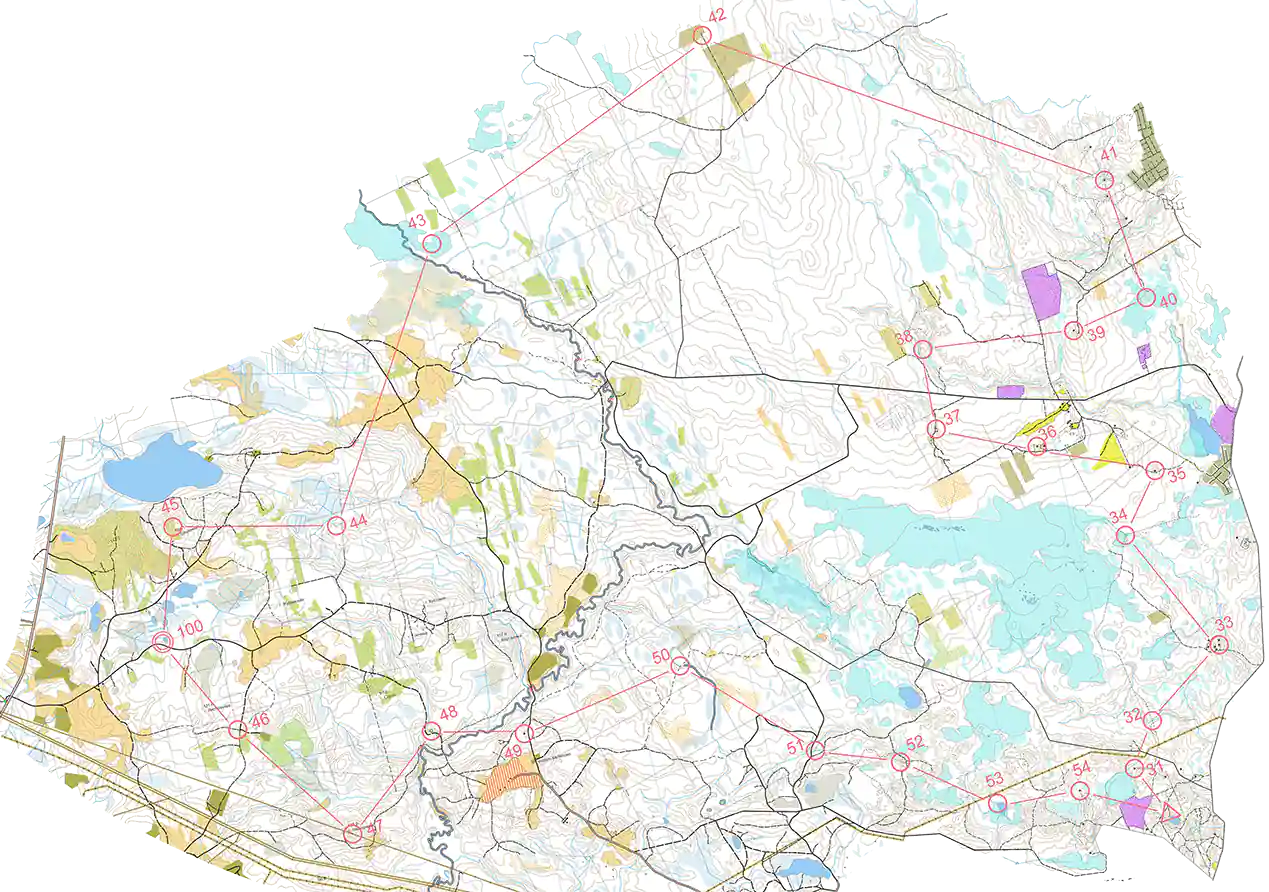
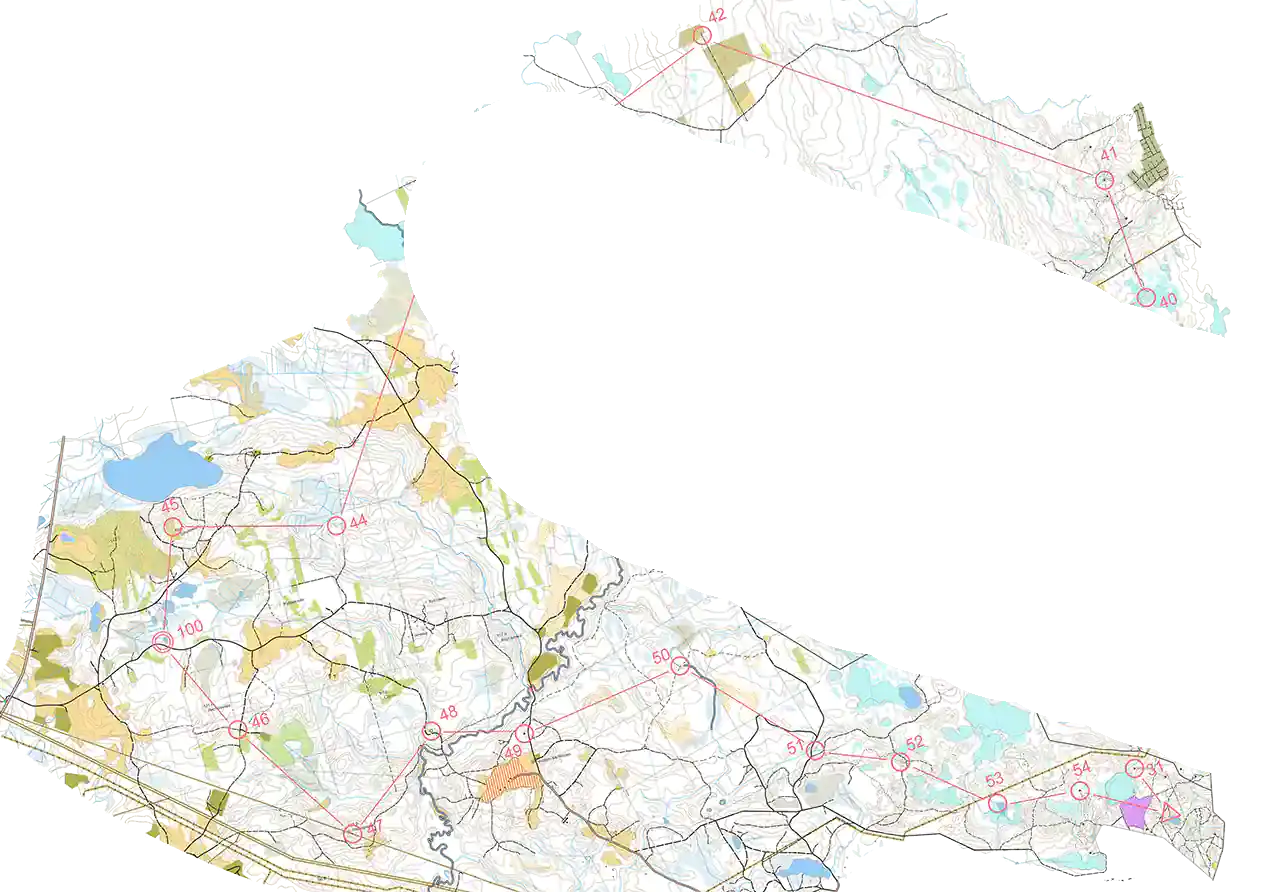
Вырезал военный полигон из рогейнерской карты Елизаветинки.

Changed region(s): [[0.3073, 0.1211, 1.0, 0.8778]]

diff --git a/js/maps-rogaine-beketov.js b/js/maps-rogaine-beketov.js
@@ -349,13 +349,12 @@ let rogaineBeketovMaps = [
     {
         name: 'Елизаветинка-Огоньки',
         date: '2010-05-22',
-        hidden: true,
         info: 'Инженерно-испытательный полигон.',
         url: './maps/rogaine/beketov/elizavetinka_ogonki_2010.webp',
         link: 'https://kandid.ru/maps10/mbs_10.gif',
         bounds: [[60.39876252373886, 29.918174743652347], [60.3239732732973, 30.276603698730472], [60.271748482126604, 29.813117980957035]],
         owner: 'BKTV',
-                start: 'MB',
+        start: 'MB',
         type: ['ROGAINE']
     },
     {
